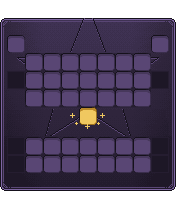
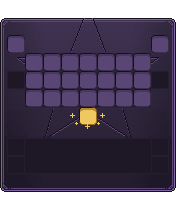
Menu Récompenses : fond retouché par l'utilisateur mis en service

Changed region(s): [[0.142, 0.5973, 0.8807, 0.7873], [0.0, 0.8145, 1.0, 0.8688]]

diff --git a/Flux/assets/recompenses/gen_fond.py b/Flux/assets/recompenses/gen_fond.py
@@ -1,4 +1,5 @@
-"""Fond du menu Récompenses (/recompenses).
+"""Fond du menu Récompenses (/recompenses). Depuis le 2026-10-28, le fond en service est celui retouché à la main par
+l'utilisateur (Flux/assets/menu_recompenses.png) : ne pas relancer ce script par-dessus sans son accord.
 
 Haut : image retouchée par l'utilisateur le 2026-10-28 (fond_haut_utilisateur.png : grande étoile gravée en
 filigrane, boîte des 21 récompenses avec page précédente et suivante sur des cases noircies, Tout récupérer et son
